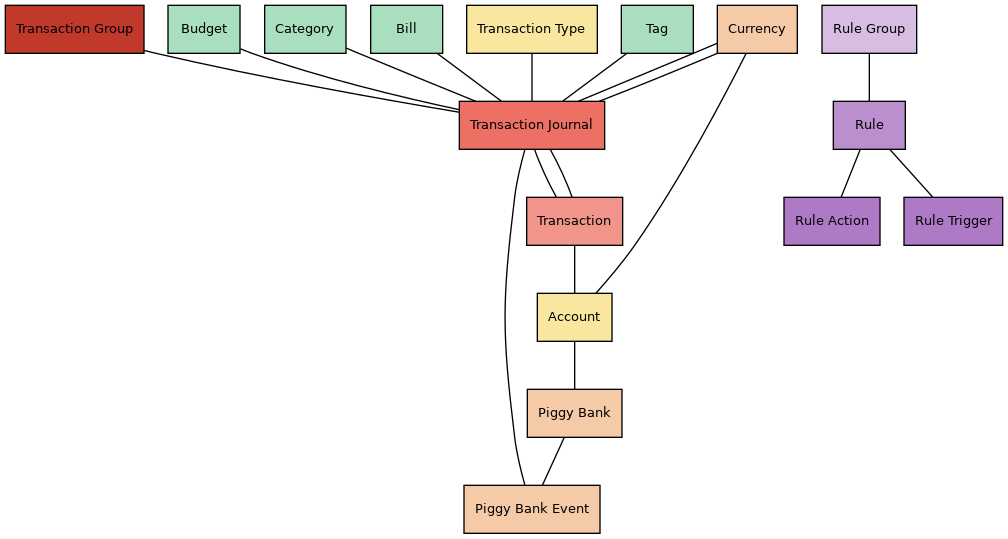
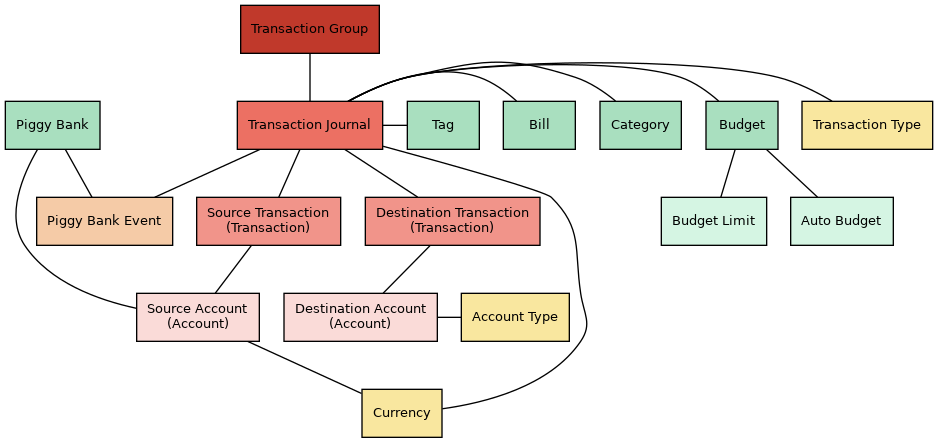
New images.

diff --git a/docs/docs/firefly-iii/about-firefly-iii/architecture.md b/docs/docs/firefly-iii/about-firefly-iii/architecture.md
@@ -1,6 +1,6 @@
 # Architecture
 
-On this page you'll find the architecture of Firefly III. It's not meant as an explanation of where everything is but rather as a means to show you how everything is structured. If you ever want to develop something here's what you need to know.
+On this page you'll find information about the internal architecture of Firefly III. It's not meant as an explanation of where everything is but rather as a means to show you how everything is structured. If you ever want to develop something these pages should show you where you need be.
 
 !!! info
     This page is under construction. Feedback is welcome!
@@ -9,7 +9,13 @@ On this page you'll find the architecture of Firefly III. It's not meant as an e
 
 ![Basic database structure](images/database.png)
 
-This image shows you a graphical overview of the most important parts of the database. There are many more tables, but these are the important objects you may want to learn about. If you see something in the database you're curious about, please let me know.
+![Webhooks](images/webhooks.png)
+
+![Rules](images/rules.png)
+
+![Recurring transactions](images/recurrence.png)
+
+These images show you a graphical overview of the most important parts of the database. There are many more tables, but these are the important objects you may want to learn about. If you see something in the database you're curious about, please let me know.
 
 ### Transactions
 
@@ -31,6 +37,14 @@ Accounts are linked to transactions and to piggy banks. A transfer (see transact
 ### Rules
 
 Rule groups contain rules. Rules have actions and triggers. Although actions and triggers may reference to budgets, categories and tags and other things, there is no database relationship. It's a type/value kind of a thing in the database.
+
+### Recurring transactions
+
+A recurring transaction has some basic information and an X number of transactions, which means it's possible to make a "split" recurring transaction. It's also possible to create multiple "repetitions", that define when a recurrence fires.
+
+### Webhooks
+
+Webhooks have a related object called the "webhook message" that contains the content of that particular moment the webhook fired (and if it succeeded).
 
 ## Code
 
